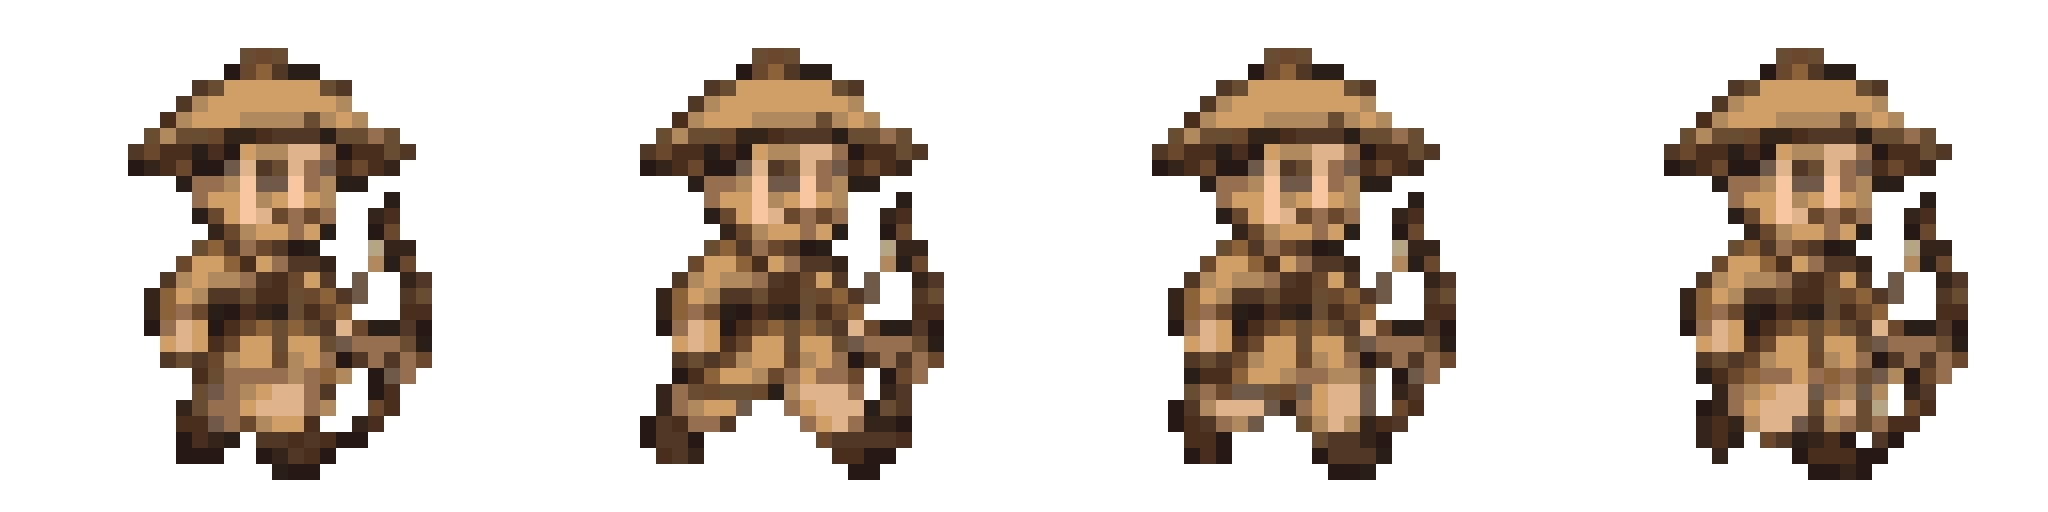
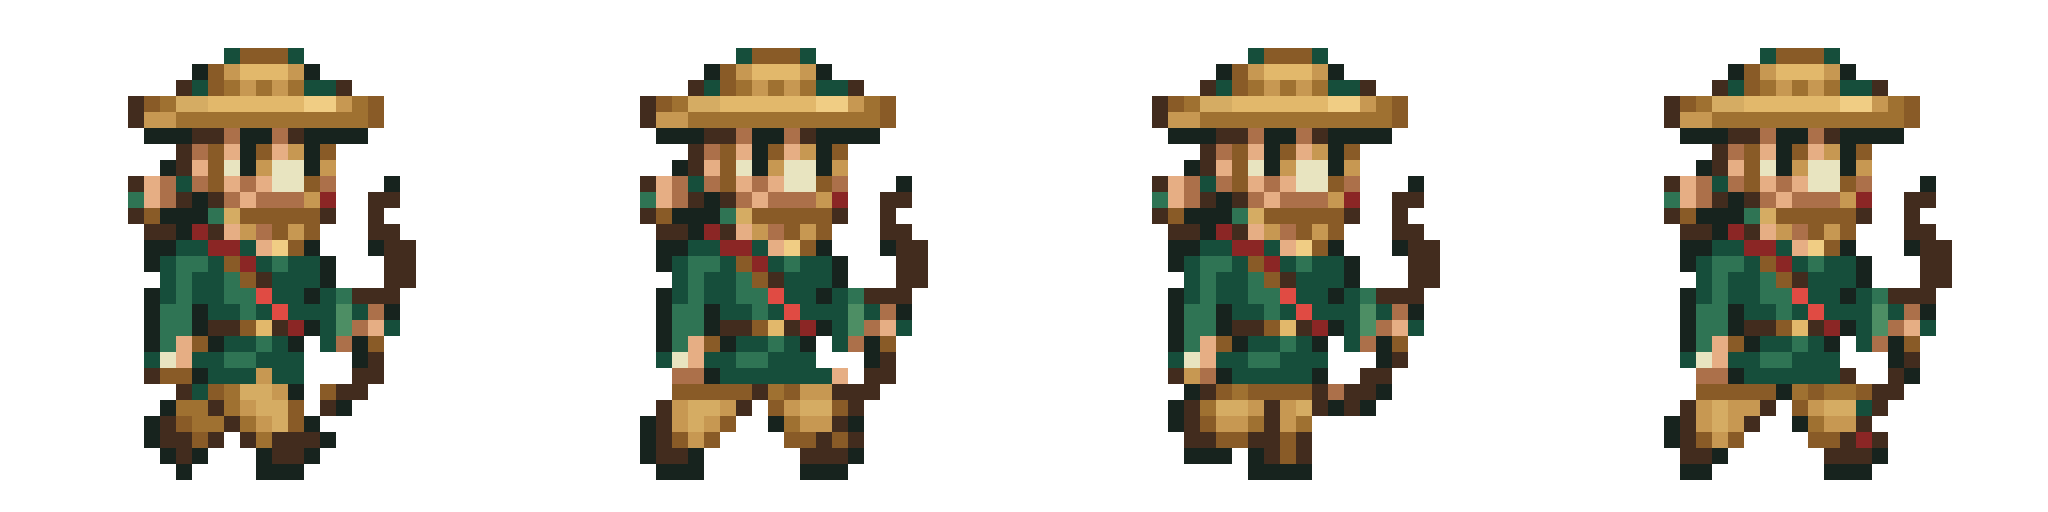
feat(assets): v3 side-view sprites with stronger character identity

diff --git a/tools/process_higgsfield_sideview_sprites.py b/tools/process_higgsfield_sideview_sprites.py
@@ -21,16 +21,79 @@ LOGICAL_SIZE = 32
 EXPORT_SCALE = 16
 GROUND_Y = 29
 TARGET_HEIGHT = 27
-PALETTE_COLORS = 16
 STABLE_UPPER_ROWS = 23
+
+CHARACTER_PALETTES: dict[str, tuple[tuple[int, int, int], ...]] = {
+    "Taoist": (
+        (31, 27, 28),
+        (62, 43, 30),
+        (99, 68, 36),
+        (180, 122, 81),
+        (235, 181, 139),
+        (147, 158, 168),
+        (221, 222, 214),
+        (239, 235, 222),
+        (35, 73, 120),
+        (54, 105, 165),
+        (151, 105, 43),
+        (210, 164, 82),
+        (239, 198, 113),
+        (184, 130, 0),
+        (242, 194, 40),
+        (174, 183, 189),
+    ),
+    "Warrior": (
+        (18, 24, 34),
+        (22, 43, 85),
+        (43, 79, 136),
+        (65, 105, 166),
+        (128, 31, 41),
+        (185, 47, 58),
+        (225, 74, 79),
+        (95, 118, 132),
+        (181, 199, 207),
+        (229, 236, 238),
+        (151, 98, 25),
+        (219, 158, 48),
+        (158, 102, 67),
+        (228, 169, 125),
+        (70, 44, 30),
+        (58, 48, 39),
+    ),
+    "Archer": (
+        (23, 35, 30),
+        (66, 44, 30),
+        (22, 78, 59),
+        (47, 116, 84),
+        (77, 142, 100),
+        (137, 91, 39),
+        (199, 152, 82),
+        (226, 184, 107),
+        (159, 113, 49),
+        (213, 172, 99),
+        (240, 205, 132),
+        (139, 38, 37),
+        (224, 75, 67),
+        (172, 112, 74),
+        (230, 174, 132),
+        (232, 228, 192),
+    ),
+}
 
 
 def chroma_foreground(rgb: np.ndarray) -> np.ndarray:
-    """Return a binary foreground mask for the generated green-screen sheet."""
+    """Return a foreground mask for generated green or magenta chroma sheets."""
     red = rgb[:, :, 0].astype(np.float32)
     green = rgb[:, :, 1].astype(np.float32)
     blue = rgb[:, :, 2].astype(np.float32)
-    background = (green > 140) & (green > red * 1.25) & (green > blue * 1.25)
+    green_key = (green > 140) & (green > red * 1.25) & (green > blue * 1.25)
+    magenta_key = (
+        (red > 140)
+        & (blue > 140)
+        & (red > green * 1.25)
+        & (blue > green * 1.25)
+    )
+    background = green_key | magenta_key
     return ~background
 
 
@@ -100,22 +163,28 @@ def resize_and_align(figures: list[Image.Image]) -> list[Image.Image]:
     return logical_frames
 
 
-def apply_shared_palette(frames: list[Image.Image]) -> list[Image.Image]:
-    """Quantize all five frames together so colors cannot drift frame to frame."""
+def apply_shared_palette(frames: list[Image.Image], character: str) -> list[Image.Image]:
+    """Map all frames to one authored palette so materials remain distinct."""
     sheet = Image.new("RGBA", (LOGICAL_SIZE * len(frames), LOGICAL_SIZE), (0, 0, 0, 0))
     for index, frame in enumerate(frames):
         sheet.alpha_composite(frame, (index * LOGICAL_SIZE, 0))
 
-    quantized = sheet.quantize(
-        colors=PALETTE_COLORS,
-        method=Image.Quantize.FASTOCTREE,
-        dither=Image.Dither.NONE,
-    ).convert("RGBA")
-    source_alpha = np.asarray(sheet)[:, :, 3]
-    quantized_array = np.asarray(quantized).copy()
-    quantized_array[:, :, 3] = np.where(source_alpha >= 128, 255, 0)
-    quantized_array[quantized_array[:, :, 3] == 0, :3] = 0
-    quantized = Image.fromarray(quantized_array, "RGBA")
+    source = np.asarray(sheet).copy()
+    opaque = source[:, :, 3] >= 128
+    palette = np.asarray(CHARACTER_PALETTES[character], dtype=np.uint8)
+    source_lab = cv2.cvtColor(source[:, :, :3], cv2.COLOR_RGB2LAB).astype(np.float32)
+    palette_lab = cv2.cvtColor(palette.reshape(1, -1, 3), cv2.COLOR_RGB2LAB)[0].astype(
+        np.float32
+    )
+    distances = np.square(source_lab[:, :, None, :] - palette_lab[None, None, :, :]).sum(
+        axis=3
+    )
+    nearest = distances.argmin(axis=2)
+    mapped = np.zeros_like(source)
+    mapped[:, :, :3] = palette[nearest]
+    mapped[:, :, 3] = np.where(opaque, 255, 0)
+    mapped[~opaque, :3] = 0
+    quantized = Image.fromarray(mapped, "RGBA")
 
     return [
         quantized.crop((index * LOGICAL_SIZE, 0, (index + 1) * LOGICAL_SIZE, LOGICAL_SIZE))
@@ -141,7 +210,7 @@ def export_character(character_root: Path) -> dict[str, object]:
 
     source = Image.open(source_path).convert("RGBA")
     frames = resize_and_align(extract_figures(source))
-    frames = apply_shared_palette(stabilize_walk_upper_body(frames))
+    frames = apply_shared_palette(stabilize_walk_upper_body(frames), character_root.name)
     exported = [
         frame.resize(
             (LOGICAL_SIZE * EXPORT_SCALE, LOGICAL_SIZE * EXPORT_SCALE),

diff --git a/asset/character/SIDEVIEW_SPRITES.md b/asset/character/SIDEVIEW_SPRITES.md
@@ -1,58 +1,91 @@
-# Side-view character sprites
+# Side-view character sprites (v3)
 
 ## Runtime format
 
 - Logical canvas: **32 × 32 pixels** per frame.
 - Export scale: **16× nearest-neighbour**, matching `new_asset/basic.png`.
 - Exported frame size: **512 × 512 pixels**.
-- `idle.png`: one right-facing / three-quarter-right idle frame, **512 × 512**.
-- `walk.png`: four right-facing walk frames in one horizontal strip, **2048 × 512**.
+- `idle.png`: one three-quarter-right idle frame, **512 × 512**.
+- `walk.png`: four three-quarter-right walk frames in one horizontal strip, **2048 × 512**.
 - Color: RGBA PNG with binary alpha. Every exported mark is a uniform **16 × 16** block from the logical grid.
-- Shared ground line: logical row **29**. Every frame keeps its full 32 × 32 canvas rather than trimming transparent margins.
+- Shared ground line: logical row **29**. Frames retain their full canvases and transparent margins.
 
-The authored pose follows `basic.png`: movement reads toward screen-right, while the face and torso retain a natural three-quarter view instead of a rigid 90-degree profile. Mirror these files in-engine for leftward movement.
+The movement direction is screen-right, while the face and torso retain the natural three-quarter view used by `basic.png`. Mirror the same textures in-engine for leftward movement.
 
-## Character identity and held weapon
+## V3 character design bible
 
-- **Taoist (도사):** black gat, white dopo with navy binding, held yellow paper talismans (부적).
-- **Warrior (무사):** brick-red cheollik, restrained lamellar vest, navy headband, held hwando (환도).
-- **Archer (궁수):** tan paeraengi, ochre hunting clothes, leather chest strap, held gakgung (각궁).
+The three palettes intentionally occupy different color families so the roster stays readable on the game's dark backgrounds and leaves room for the planned Mudang and Executioner.
 
-The weapon silhouettes contain no lettering or asymmetric emblem, so horizontal mirroring remains valid.
+- **Taoist (도사), wandering mystic:** wide conical straw satgat low over the eyes; gray-white dopo with strong blue binding; upright ringed seokjang pilgrim staff taller than the character; yellow-gold talisman flashes tucked into the belt. Palette: gray-white, straw tan, medium blue, gold.
+- **Warrior (무사), Joseon soldier:** round navy jeonrip with a bright red tassel; broad navy cheollik/lamellar silhouette with crimson sash accents; low-held curved hwando with a bright steel edge. Palette: navy, readable blue highlights, crimson, steel; no brown-dominant armor.
+- **Archer (궁수), mountain hunter:** flat straw paeraengi; deep-green hunting jacket separated clearly from tan trousers; bright red diagonal quiver strap and visible back quiver/arrow tips; front-held gakgung. Palette: forest green, tan, straw gold, red; no brown monochrome.
+
+Held gear and costume marks contain no lettering or one-sided emblem, so horizontal mirroring remains valid.
 
 ## Walk order and slicing
 
-Slice `walk.png` as **4 columns × 1 row**, with 512 × 512 regions:
+Slice `walk.png` as **4 columns × 1 row**, using 512 × 512 regions:
 
 1. Contact A
 2. Passing A
 3. Contact B
 4. Passing B
 
-Loop frames `0 → 1 → 2 → 3` at about 8–10 fps. The walk frames share one pixel-identical upper-body layer through logical row 22; generated lower robe and leg pixels below it retain the alternating walk poses.
+Loop frames `0 → 1 → 2 → 3` at approximately 8–10 fps. The walk frames share one pixel-identical upper-body layer through logical row 22; only the generated lower garment and legs retain the alternating poses.
 
 ## Higgsfield generation
 
-Each character came from **one five-pose sheet generation**, never from independent frame generations. This keeps identity, costume, weapon, and proportions coherent before local stabilization.
+Each final v3 character used exactly **one Higgsfield generation containing all five poses** (idle plus four walk phases). No pose was generated independently.
 
 - Service: Higgsfield MCP image generation.
 - Model: **GPT Image 2** (`gpt_image_2`).
-- Preset/parameters: **2K**, **high** quality, **16:9**, one result.
-- Style conditioning: uploaded `new_asset/basic.png` in every final generation.
-- Structure conditioning: a prior whole five-pose sheet for the same character was also supplied to the final weapon-bearing generation.
-- Final raw sheet size: **2688 × 1520**.
+- Parameters: **2K**, **high** quality, **16:9**, one result.
+- Conditioning: uploaded `new_asset/basic.png` as the only image reference in every call.
+- Chroma backdrop: flat `#FF00FF`, selected so the Archer's required deep green survives extraction.
+- Raw sheet size: **2688 × 1520**.
 - Final generation job IDs:
-  - Taoist: `487b1777-095d-4bd1-984b-b30e160d68a9`
-  - Warrior: `afa6940e-3354-4723-9618-124453026322`
-  - Archer: `96d56675-ea72-4a26-b700-dc651f78d367`
-
-The requested Higgsfield `get_workflow_instructions({ workflow: "character-sheet" })` operation was not registered in this worker session. Work paused and the coordinator explicitly authorized using the available Higgsfield generation tools directly; all single-sheet consistency constraints remained in force.
+  - Taoist: `3af062d3-7b40-451f-b9b4-38c2799fc2cc`
+  - Warrior: `919396d1-64f7-45b7-bb2a-093bdcb1b9a8`
+  - Archer: `4f292ca4-da7f-465a-a918-c9d2fc4fc385`
 
 Raw generated sheets are preserved at:
 
 - `asset/character/Taoist/raw/side_sheet_higgsfield.png`
 - `asset/character/Warrior/raw/side_sheet_higgsfield.png`
 - `asset/character/Archer/raw/side_sheet_higgsfield.png`
+
+### Final prompt structure
+
+All three calls shared this production constraint block:
+
+```text
+Create one horizontal sheet with exactly five poses of one identical character:
+idle, contact A, passing A, contact B, passing B. Use basic.png's chunky,
+approximately two-heads-tall, three-quarter-right 32x32 logical-pixel style.
+Lock the face, hat, torso, palette, held item, scale, and ground line. Animate only
+the legs and the smallest necessary arm shift. Use a one-logical-pixel dark outline,
+large clean clusters, flat cel shading, and only 2-3 shades per material. No dithering,
+noise, gradients, antialiasing, tiny detail, dividers, labels, shadows, or scenery.
+Keep five separated connected silhouettes on perfectly flat #FF00FF.
+```
+
+The character-specific prompt blocks were:
+
+```text
+Taoist: conical straw-tan satgat (not a black flat gat); gray-white dopo with vivid
+blue trim; upright ringed seokjang attached to the hand and 10-15% taller than the
+character; two yellow-gold talisman slips tucked at the belt. Keep gray-white, straw,
+blue, and gold as clean distinct material blocks.
+
+Warrior: dark navy round jeonrip with a bright red tassel; broad navy cheollik and
+simplified lamellar chest; crimson sash accents; low-held curved hwando with brass
+guard and bright steel edge. Use essentially no muddy brown and keep navy, crimson,
+and steel strongly separated.
+
+Archer: flat straw paeraengi (not conical); deep forest-green hunting jacket, clearly
+tan trousers, bright red diagonal quiver strap, visible back quiver with arrow tips,
+and front-held gakgung with taut string. Keep green, tan, straw, and red distinct.
+```
 
 ## Local post-processing
 
@@ -62,31 +95,29 @@ Run from the repository root:
 python tools/process_higgsfield_sideview_sprites.py
 ```
 
-The processor performs only generated-image transformations; it does not draw character pixels:
+The processor performs generated-image transformations only; it does not draw character pixels:
 
-1. Removes the generated green chroma background by color dominance.
+1. Removes green or magenta chroma pixels by color dominance.
 2. Finds the five largest connected foreground components and orders them left-to-right.
-3. Reduces all five figures with one per-character scale onto a 32 × 32 logical grid.
-4. Aligns each frame from the hat/head anchor and fixes the feet to logical ground row 29.
-5. Reuses the first generated walk frame's upper layer for the other walk frames through row 22, eliminating head, costume, and held-item flicker.
-6. Quantizes the whole five-frame sheet together to a shared bounded palette with no dithering.
-7. Exports the logical pixels at 16× using nearest-neighbour sampling.
-
-The earlier `tools/generate_sideview_sprites.py` Pillow drawing workflow was removed. It is superseded by the Higgsfield source sheets and the extraction-only processor above.
+3. Reduces all figures with one per-character scale onto a 32 × 32 logical grid.
+4. Aligns each frame from its hat/head anchor and fixes the feet to logical ground row 29.
+5. Reuses the first generated walk frame's upper layer through row 22 for the remaining walk frames, removing face, costume, and held-item flicker.
+6. Quantizes all five frames together to a per-character authored palette of up to **16 opaque colors** with no dithering.
+7. Exports at 16× using nearest-neighbour sampling.
 
 ## Verification
 
-All six runtime PNGs and all three four-frame strips were visually inspected after processing. The checks confirmed:
+All raw sheets, idle sprites, and four-frame strips were visually inspected against a dark background after processing. Automated checks confirmed:
 
 - exact dimensions: idle 512 × 512; walk 2048 × 512;
-- transparent PNG output with binary alpha;
+- transparent corners and binary alpha;
 - all opaque pixels snapped to the 16× export grid;
 - equal 512-pixel walk cells and one common canvas height;
-- palette totals of 16–17 RGBA entries including transparency;
+- at most 17 RGBA entries per character including transparency (up to 16 opaque authored palette entries);
 - logical alpha bounds ending on ground row 29;
-- **0.0 logical-pixel upper-body center spread** across each four-frame walk loop;
-- stable gat/headband/paeraengi, costume, face, and held weapon across the walk frames;
-- distinct alternating lower-body poses and readable loop order;
-- no background remnants, dividers, labels, or watermark.
+- **0.0 logical-pixel upper-body center spread** across every walk loop;
+- pixel-identical walk upper bodies and distinct lower-body frames;
+- no chroma remnants, dividers, labels, or watermark;
+- the required hat, costume, held weapon, and palette identity remain readable at the actual 32 × 32 logical resolution.
 
-Keep texture filtering and mipmaps disabled in Godot so the 32 × 32 logical pixels remain crisp.
+Keep texture filtering and mipmaps disabled in Godot so the logical pixels remain crisp.
